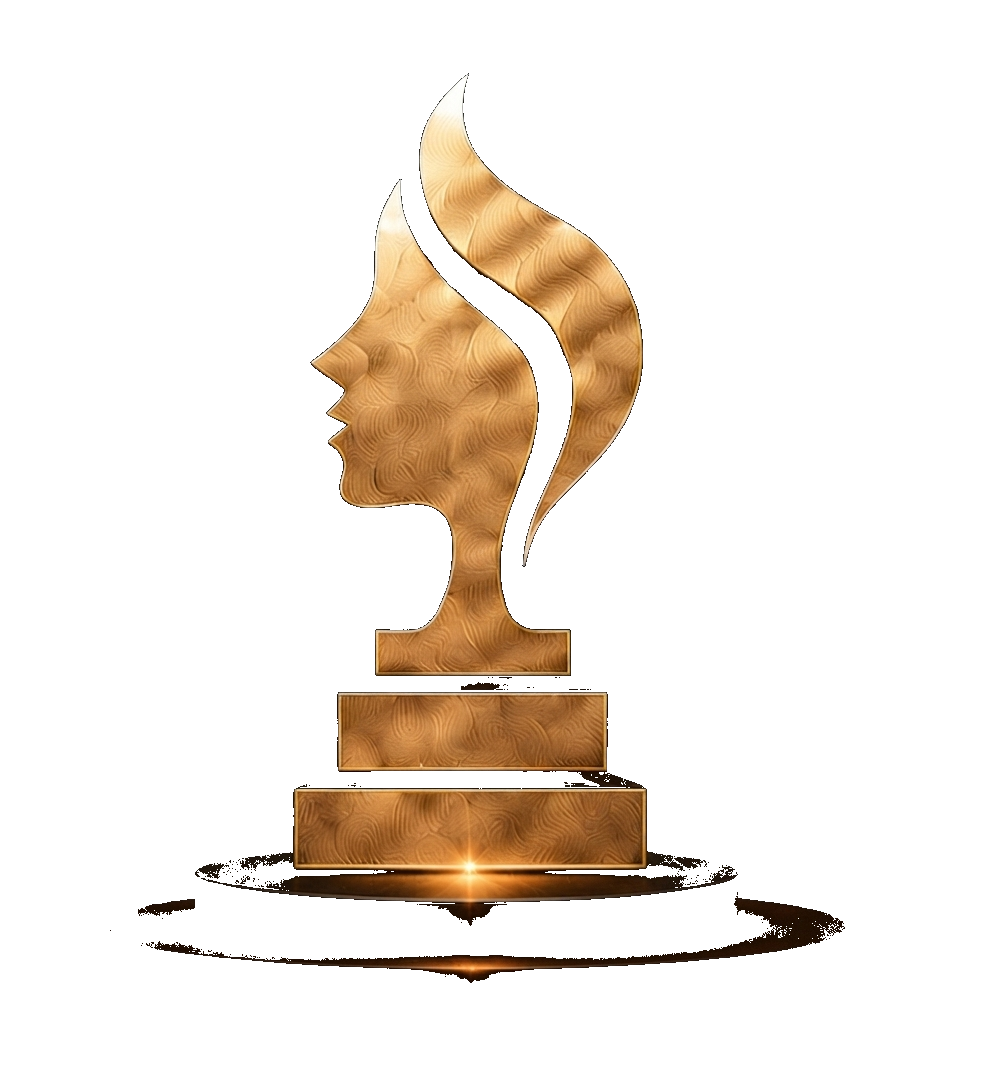
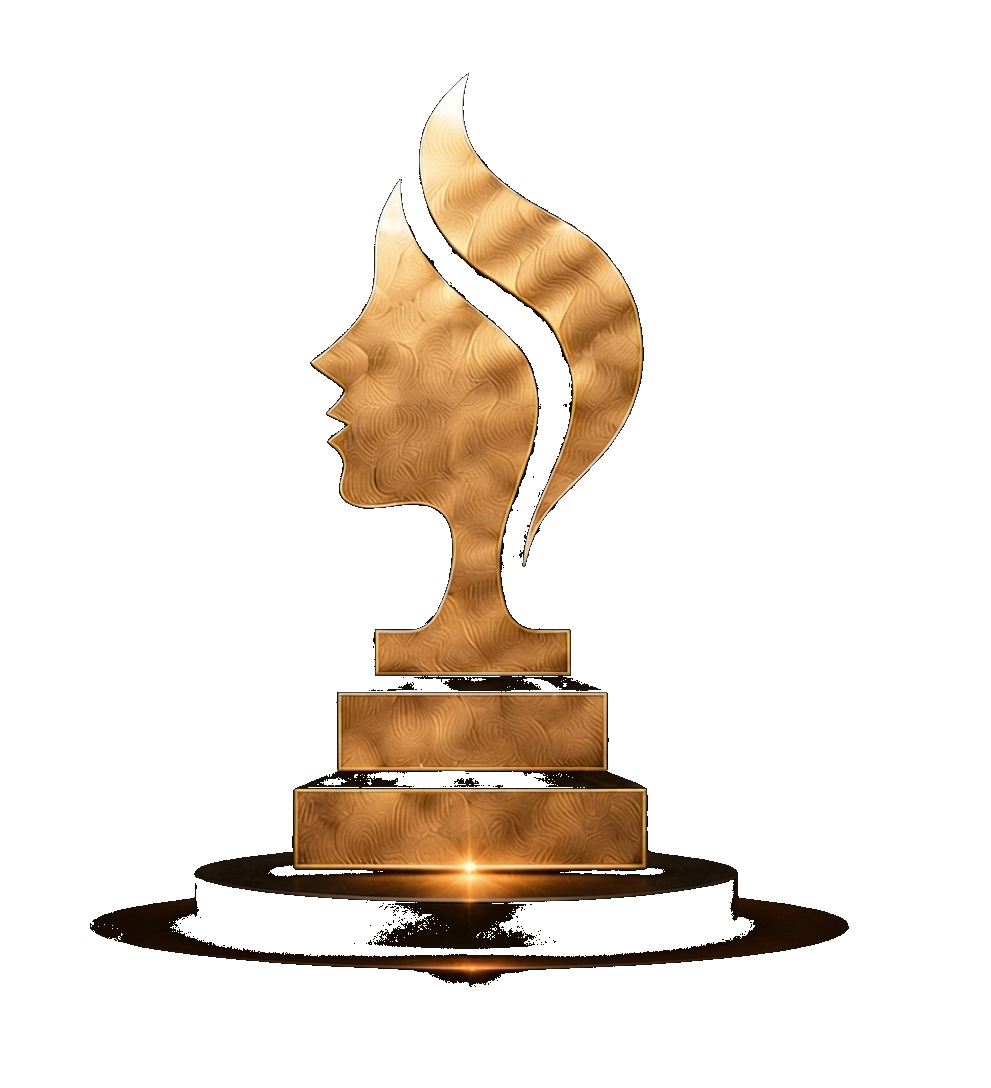
fix: usar jpg original do trofeu para preservar base preta e evitar vazamento de fundo

diff --git a/components/decor/hero-trophy.tsx b/components/decor/hero-trophy.tsx
@@ -67,7 +67,7 @@ export function HeroTrophy() {
 
       <Reveal className="w-full h-full flex items-center justify-center">
         <img
-          src="/trofeu-hero-clean.png"
+          src="/trofeu-hero.jpg"
           alt="Troféu oficial Os Melhores do Ano"
           className="w-full h-full object-contain select-none pointer-events-none drop-shadow-[0_4px_24px_rgba(0,0,0,0.5)]"
         />

diff --git a/components/sections/about.tsx b/components/sections/about.tsx
@@ -87,7 +87,7 @@ export function About() {
                 }}
               />
               <img
-                src="/trofeu-hero-clean.png"
+                src="/trofeu-hero.jpg"
                 alt="Troféu oficial Os Melhores do Ano"
                 className="w-full h-full object-contain select-none pointer-events-none drop-shadow-[0_8px_32px_rgba(0,0,0,0.6)]"
               />